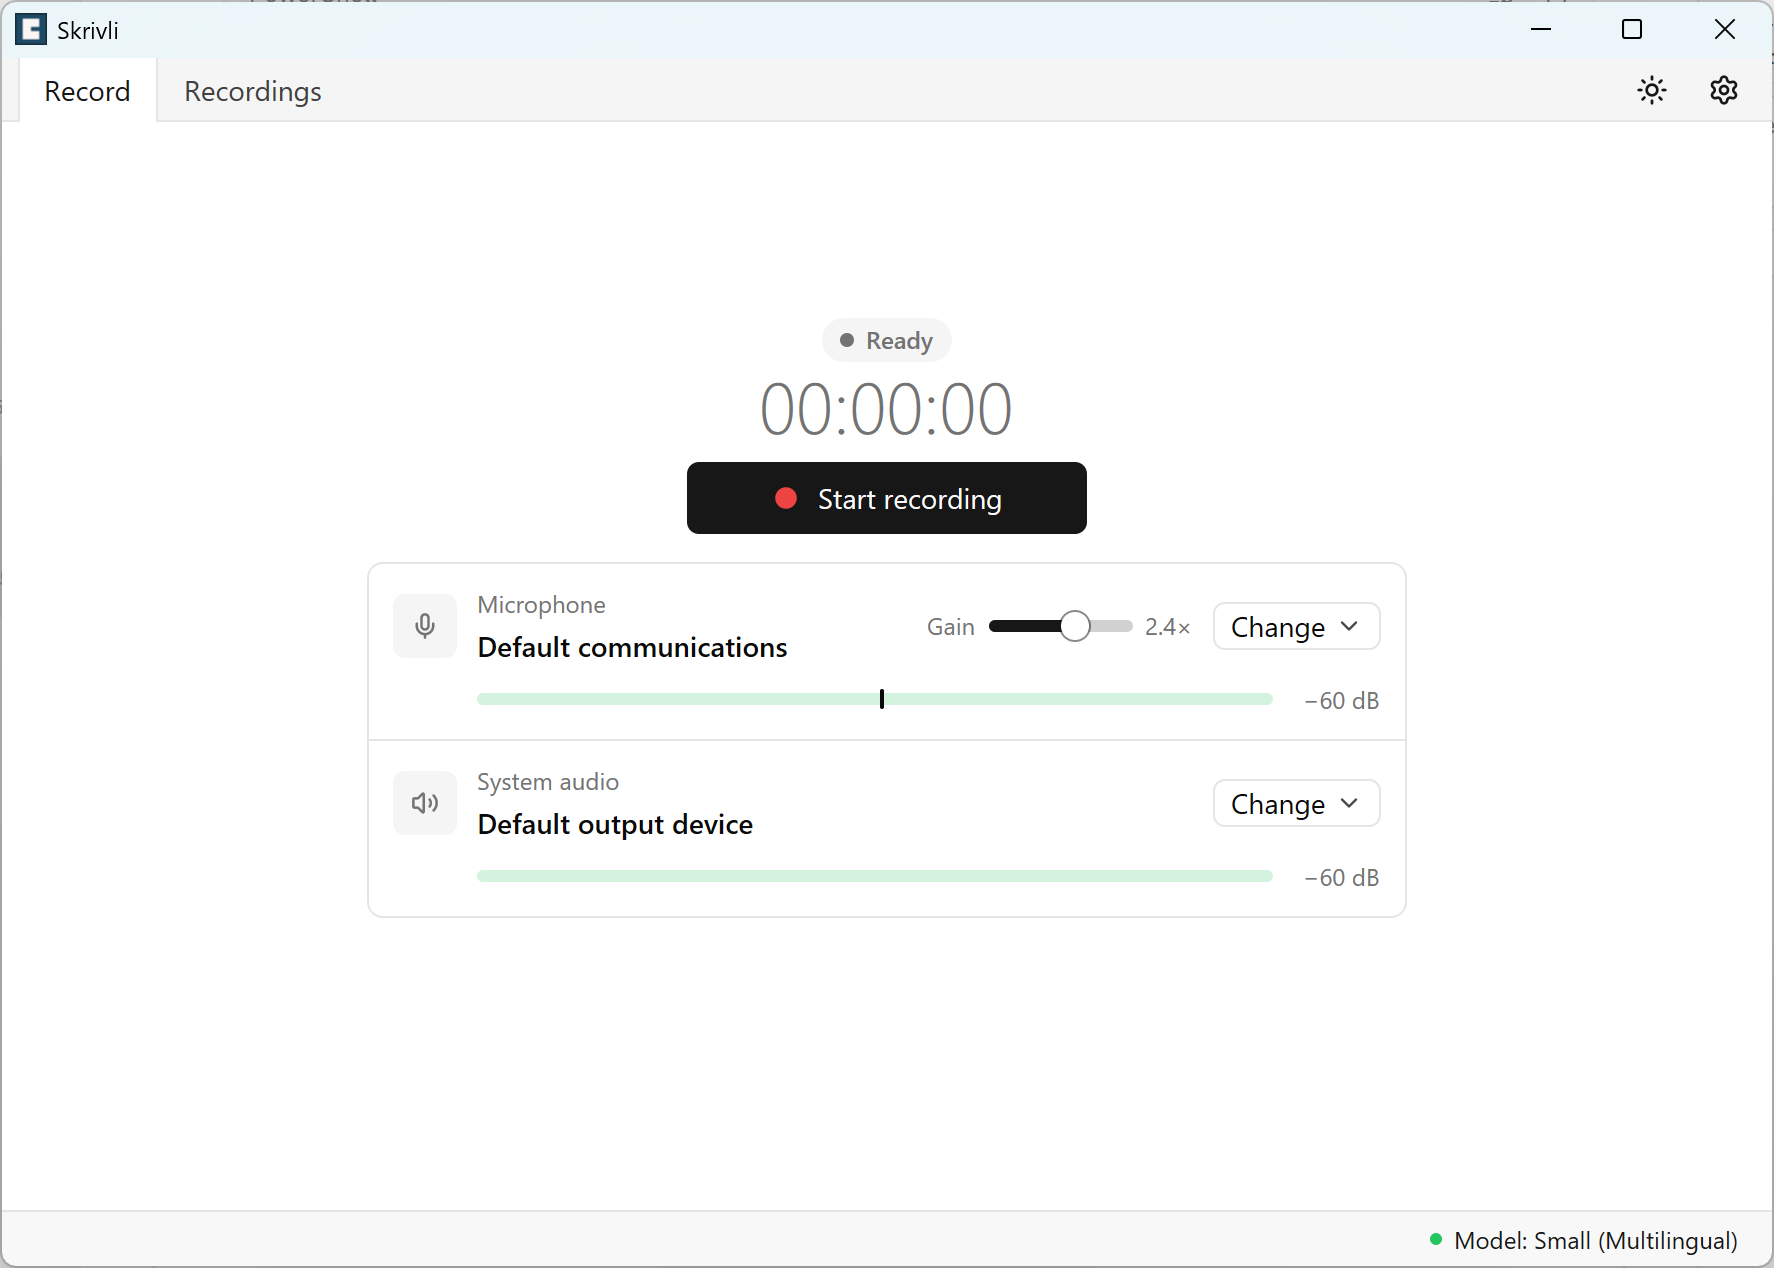
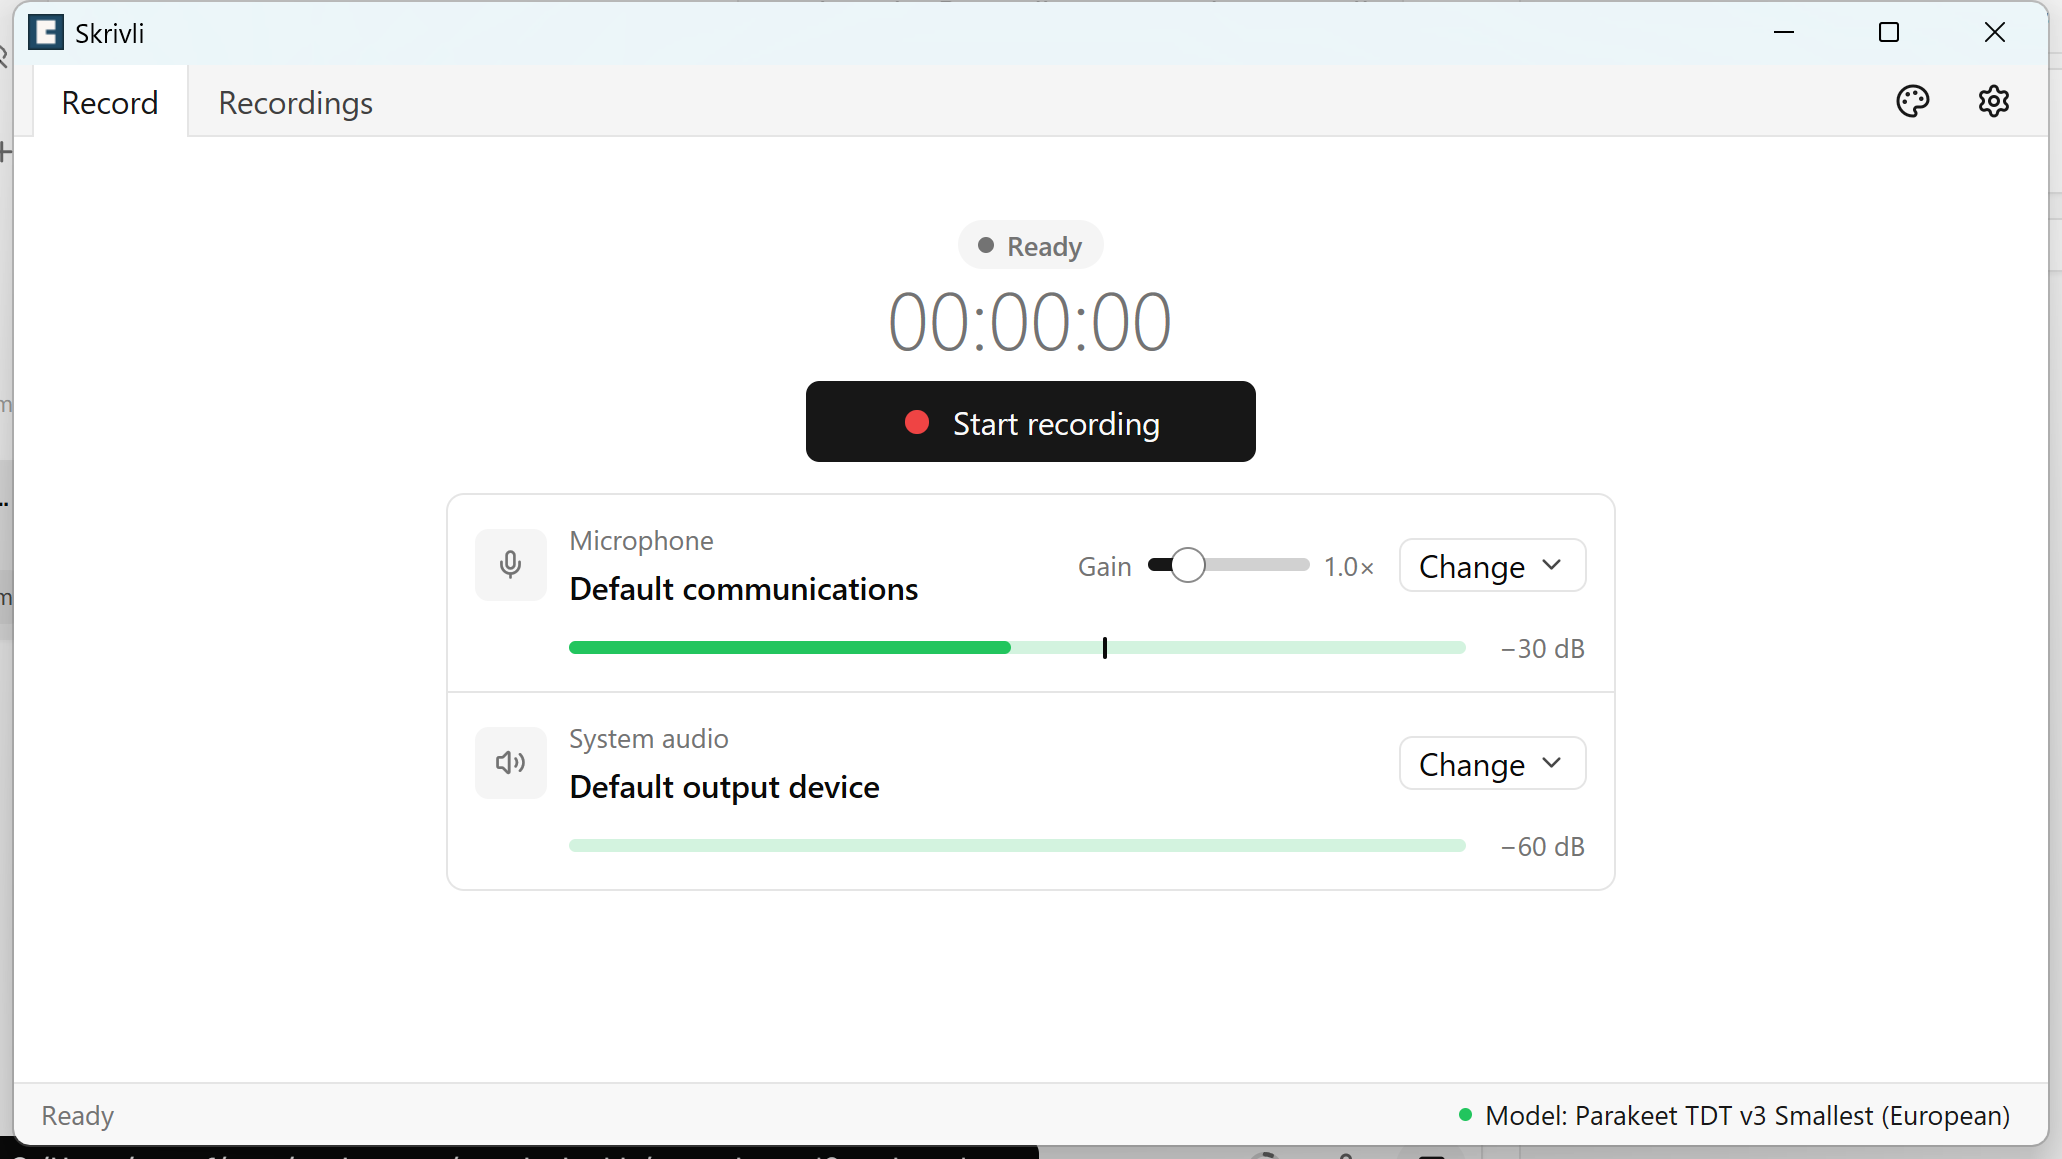
Update README screenshots and add model selection dialog

diff --git a/README.md b/README.md
@@ -44,6 +44,10 @@ Skrivli is distributed as a portable Windows application in a ZIP archive.
 
 ![Recordings view](.assets/recordings.png)
 
+### Model selection
+
+![Transcription model dialog](.assets/model-selection.png)
+
 ## For developers
 
 ### Contribution
